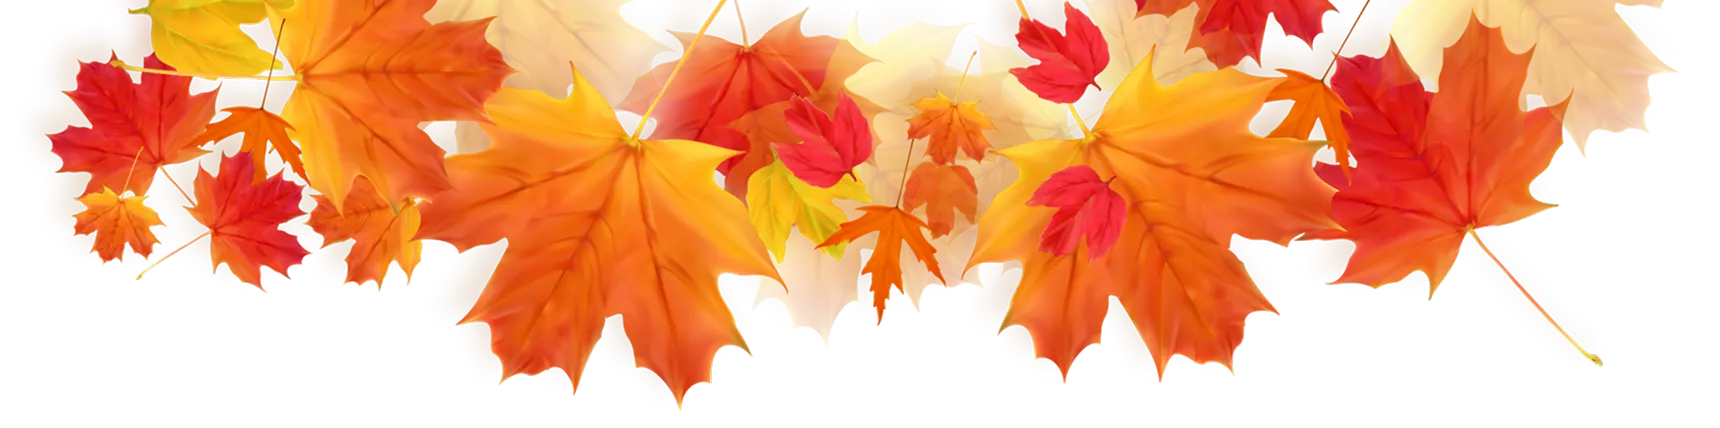
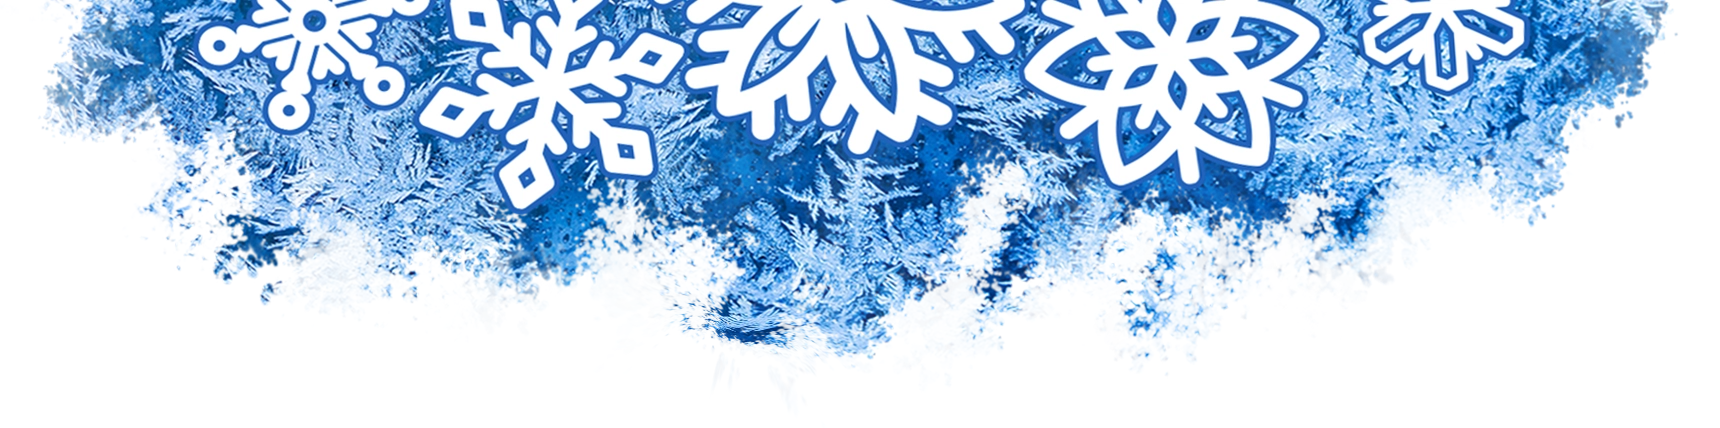
changes design to winter style

diff --git a/scss/main.css b/scss/main.css
@@ -51,39 +51,7 @@ body {
   transform: rotate(180deg);
 }
 
-.section-shadow {
-  position: absolute;
-  top: 0;
-  transform: translateY(-50%);
-  left: 0;
-  width: 100%;
-  height: 120px;
-  z-index: 10;
-}
 
-.section-shadow::before {
-  content: "";
-  position: absolute;
-  top: 50%;
-  left: 0;
-  transform: translateY(-50%);
-  width: 100%;
-  height: 35px;
-  background: linear-gradient(to bottom, rgba(255, 255, 255, 0) 0%, rgba(255, 255, 255, 0.4) 20%, rgb(255, 255, 255) 50%, rgba(255, 255, 255, 0.4) 80%, rgba(255, 255, 255, 0) 100%);
-  filter: blur(5px);
-}
-
-.section-shadow::after {
-  content: "";
-  position: absolute;
-  top: 50%;
-  left: 0;
-  transform: translateY(-50%);
-  width: 100%;
-  height: 100%;
-  background: radial-gradient(ellipse 40% 45% at 18% 50%, rgba(255, 255, 255, 0.95) 0%, rgba(255, 255, 255, 0.6) 40%, transparent 70%), radial-gradient(ellipse 45% 50% at 50% 50%, rgb(255, 255, 255) 0%, rgba(255, 255, 255, 0.7) 45%, transparent 75%), radial-gradient(ellipse 40% 45% at 82% 50%, rgba(255, 255, 255, 0.95) 0%, rgba(255, 255, 255, 0.6) 40%, transparent 70%);
-  filter: blur(12px);
-}
 
 .section-wrapper {
   max-width: 430px;
@@ -153,19 +121,6 @@ body {
   padding-bottom: 10px;
 }
 
-.section-card::after {
-  content: "";
-  position: absolute;
-  top: 10px;
-  left: 0;
-  right: 0;
-  bottom: 0;
-  background-image: url("/card-line.svg");
-  background-position: center;
-  background-size: 100% 100%;
-  background-repeat: no-repeat;
-}
-
 .section-card:not(:last-child) {
   margin-bottom: 20px;
 }
@@ -173,7 +128,8 @@ body {
 .section-card__inner {
   padding: 28px 20px;
   background: var(--card-bg);
-  box-shadow: 0 4px 6px -1px rgba(0, 0, 0, 0.1), 0 2px 4px -1px rgba(0, 0, 0, 0.06);
+  box-shadow: 0 8px 16px -4px rgba(0, 0, 0, 0.15), 0 4px 8px -2px rgba(0, 0, 0, 0.1);
+  border: 1px solid rgba(59, 130, 246, 0.15);
   border-radius: 12px;
 }
 
@@ -210,7 +166,8 @@ body {
 .section-main__card {
   border-radius: 12px;
   background: var(--card-bg);
-  box-shadow: 0 4px 6px -1px rgba(0, 0, 0, 0.1), 0 2px 4px -1px rgba(0, 0, 0, 0.06);
+  box-shadow: 0 8px 16px -4px rgba(0, 0, 0, 0.15), 0 4px 8px -2px rgba(0, 0, 0, 0.1);
+  border: 1px solid rgba(59, 130, 246, 0.15);
   flex: 1;
   display: flex;
   flex-direction: column;
@@ -293,7 +250,8 @@ body {
 .section-contact {
   border-radius: 12px;
   background: var(--card-bg);
-  box-shadow: 0 4px 6px -1px rgba(0, 0, 0, 0.1), 0 2px 4px -1px rgba(0, 0, 0, 0.06);
+  box-shadow: 0 8px 16px -4px rgba(0, 0, 0, 0.15), 0 4px 8px -2px rgba(0, 0, 0, 0.1);
+  border: 1px solid rgba(59, 130, 246, 0.15);
   padding: 16px;
 }
 
@@ -321,6 +279,8 @@ body {
 .section-item {
   border-radius: 12px;
   background: var(--card-bg);
+  box-shadow: 0 8px 16px -4px rgba(0, 0, 0, 0.15), 0 4px 8px -2px rgba(0, 0, 0, 0.1);
+  border: 1px solid rgba(59, 130, 246, 0.15);
   padding: 16px;
 }
 

diff --git a/index.html b/index.html
@@ -47,7 +47,6 @@
             </div>
         </section>
         <section class="section" id="section-countdown">
-            <div class="section-shadow"></div>
             <div class="section-body">
                 <div class="section-cards">
                     <div class="section-card">
@@ -78,7 +77,6 @@
             </div>
         </section>
         <section class="section" id="section-wedding">
-            <div class="section-shadow"></div>
             <div class="section-body">
                 <div class="section-text mb-5">
                     Bu muhim va unutilmas kunni
@@ -130,7 +128,6 @@
             </div>
         </section>
         <section class="section" id="section-map">
-            <div class="section-shadow"></div>
             <div class="section-body">
                 <div class="section-subtitle mb-2">To‘yxona manzili</div>
                 <div class="section-map">
@@ -142,7 +139,6 @@
             </div>
         </section>
         <section class="section" id="section-text">
-            <div class="section-shadow"></div>
             <div class="section-body">
                 <div class="section-wishes">
                     <h3 class="section-wishes__title">
